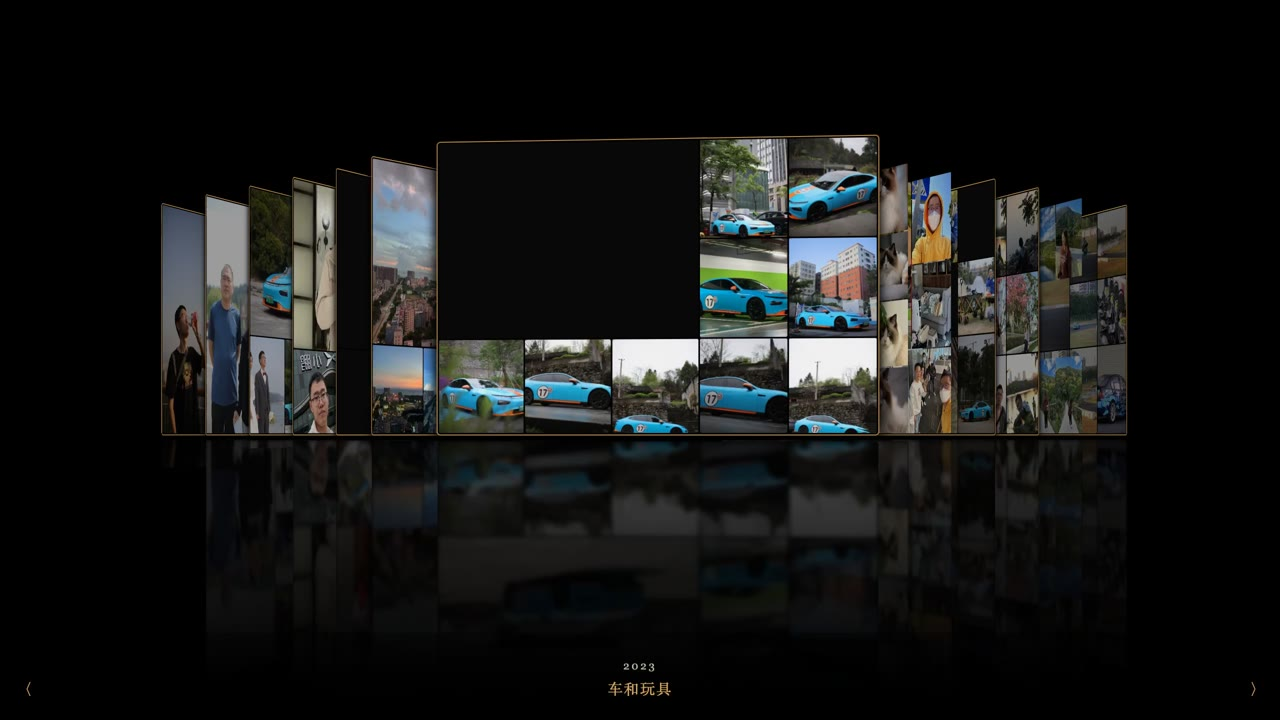
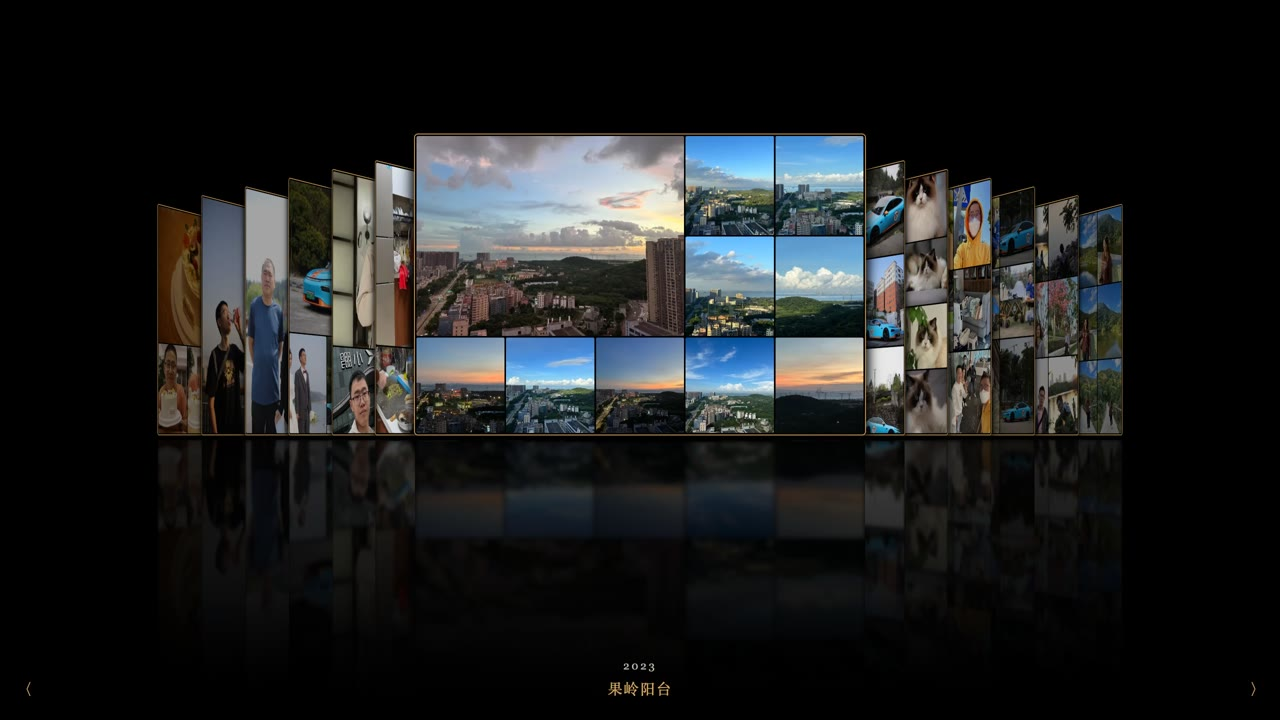
Simplify gallery entry and refresh PhotoMuseum opening still

diff --git a/src/index.html b/src/index.html
@@ -1,7 +1,7 @@
 <!doctype html>
 <html lang="zh-CN"><head><meta charset="utf-8"><meta name="viewport" content="width=device-width,initial-scale=1"><title>pixelcao · 作品</title><link rel="preload" href="/fonts/ark-pixel/ark-pixel-12px-proportional-zh_hans.otf.woff2" as="font" type="font/woff2" crossorigin><link rel="stylesheet" href="/style.css"></head>
 <body>
-<header><button class="brand" type="button" aria-label="关于 pixelcao" aria-haspopup="dialog">pixelcao</button><button id="overview" hidden aria-label="返回全景">返回全景</button><button id="open-gallery" aria-label="项目画廊" aria-haspopup="dialog"><svg viewBox="0 0 16 16" aria-hidden="true" shape-rendering="crispEdges"><path fill="currentColor" d="M0 0h7v7H0zm9 0h7v7H9zM0 9h7v7H0zm9 0h7v7H9z"/></svg><span>项目画廊</span></button><button class="sound-toggle" data-sound-toggle type="button" aria-label="开启声音" aria-pressed="false"></button><a class="resume-link" href="/resume/" target="_blank" rel="noopener">简历 <span aria-hidden="true">↗</span></a></header>
+<header><button class="brand" type="button" aria-label="关于 pixelcao" aria-haspopup="dialog">pixelcao</button><button id="overview" hidden aria-label="返回全景">返回全景</button><button id="open-gallery" aria-label="项目画廊" aria-haspopup="dialog"><svg viewBox="0 0 16 16" aria-hidden="true" shape-rendering="crispEdges"><path fill="currentColor" d="M0 0h7v7H0zm9 0h7v7H9zM0 9h7v7H0zm9 0h7v7H9z"/></svg></button><button class="sound-toggle" data-sound-toggle type="button" aria-label="开启声音" aria-pressed="false"></button><a class="resume-link" href="/resume/" target="_blank" rel="noopener">简历 <span aria-hidden="true">↗</span></a></header>
 <main><section id="timeline" aria-label="作品展厅">
 <div class="intro"><h1 id="title" tabindex="0" role="button" aria-label="访问当前项目"></h1><p id="summary"></p><button class="dark" id="explore">查看项目 <span aria-hidden="true">↗</span></button></div>
 <div id="stage" tabindex="0" aria-label="主题岛群，点击主题浏览，点击项目访问"><div id="cards"></div></div>

diff --git a/src/style.css b/src/style.css
@@ -1227,7 +1227,7 @@ body *{font-family:var(--pixel-font);font-synthesis:none}
 }
 
 /* Curated full-screen timeline; each project's pictures stay in one filmstrip. */
-#open-gallery{display:flex;align-items:center;gap:10px;font-size:18px;color:#dddcca;padding:8px 0}
+#open-gallery{display:flex;align-items:center;justify-content:center;width:36px;height:36px;flex:none;color:#dddcca;padding:8px}
 #open-gallery svg{width:20px;height:20px}
 #open-gallery:hover{color:#edbd69}
 body.gallery-open{overflow:hidden}
@@ -1267,7 +1267,7 @@ dialog#gallery-preview{position:fixed;inset:0;width:100%;max-width:none;height:1
 #gallery-preview [data-preview-prev]{left:1%}#gallery-preview [data-preview-next]{right:1%}
 #gallery-preview a{position:absolute;bottom:20px;right:5%;font-size:18px}
 @media(max-width:850px){
- #open-gallery{padding:6px;width:32px;height:32px;flex:none}#open-gallery span{display:none}
+ #open-gallery{padding:6px;width:32px;height:32px}
  .gallery-header{padding:18px 5%;gap:12px}.gallery-header h1{font-size:26px}.gallery-header button{font-size:16px;padding:7px 10px}
  .gallery-timeline{--date-width:0px;--timeline-gap:20px;padding:30px 5% 50px}
  .gallery-project{display:block;padding:0 0 36px 26px}
